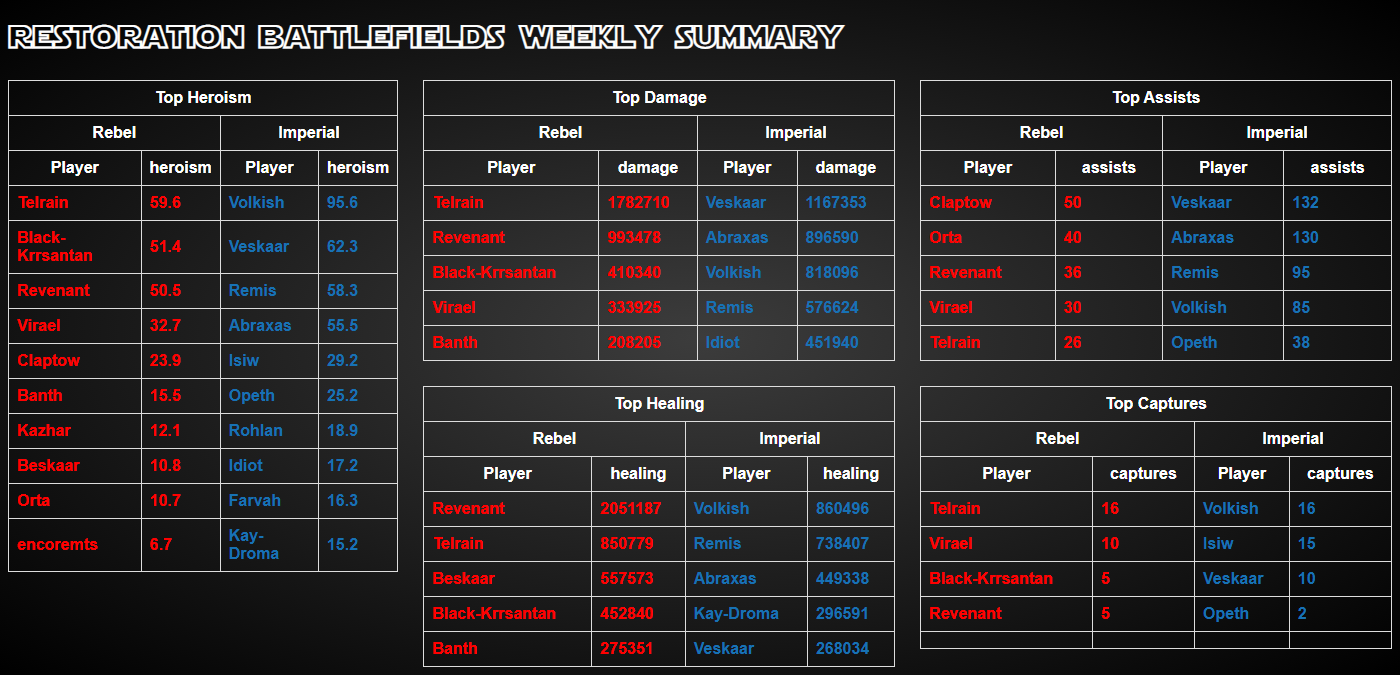
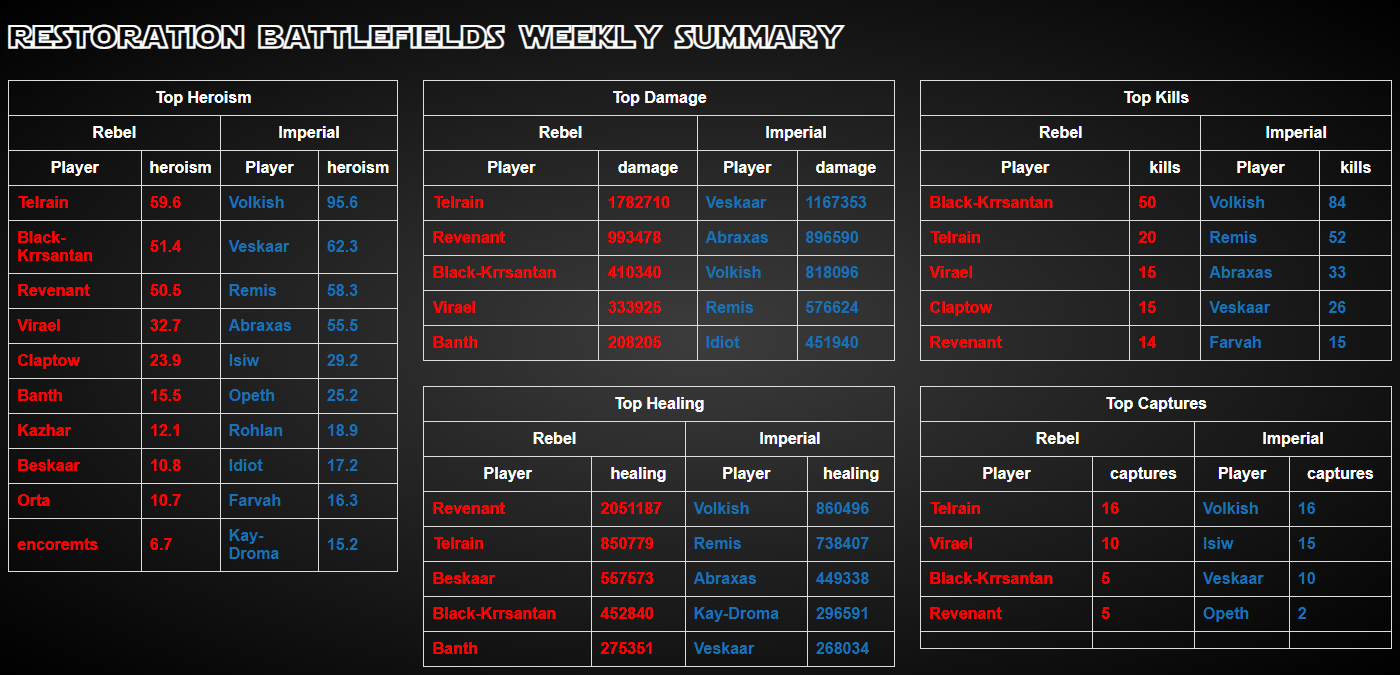
change top assists to top kills

diff --git a/table.html b/table.html
@@ -189,43 +189,43 @@
         </div>
                         <div class="table-cell">
             <table id="player-table">
-                <tr><th colspan="4">Top Assists</th></tr>
+                <tr><th colspan="4">Top Kills</th></tr>
                 <tr><th colspan="2">Rebel</th><th colspan="2">Imperial</th></tr>
-                <tr><th>Player</th><th>assists</th><th>Player</th><th>assists</th></tr>
+                <tr><th>Player</th><th>kills</th><th>Player</th><th>kills</th></tr>
                 
                 <tr>
-                    <td class="rebel-text">Claptow</td>
+                    <td class="rebel-text">Black-Krrsantan</td>
                     <td class="rebel-text">50</td>
-                    <td class="imperial-text">Veskaar</td>
-                    <td class="imperial-text">132</td>
-                </tr>
-            
-                <tr>
-                    <td class="rebel-text">Orta</td>
-                    <td class="rebel-text">40</td>
-                    <td class="imperial-text">Abraxas</td>
-                    <td class="imperial-text">130</td>
-                </tr>
-            
-                <tr>
-                    <td class="rebel-text">Revenant</td>
-                    <td class="rebel-text">36</td>
-                    <td class="imperial-text">Remis</td>
-                    <td class="imperial-text">95</td>
-                </tr>
-            
-                <tr>
-                    <td class="rebel-text">Virael</td>
-                    <td class="rebel-text">30</td>
                     <td class="imperial-text">Volkish</td>
-                    <td class="imperial-text">85</td>
+                    <td class="imperial-text">84</td>
                 </tr>
             
                 <tr>
                     <td class="rebel-text">Telrain</td>
-                    <td class="rebel-text">26</td>
-                    <td class="imperial-text">Opeth</td>
-                    <td class="imperial-text">38</td>
+                    <td class="rebel-text">20</td>
+                    <td class="imperial-text">Remis</td>
+                    <td class="imperial-text">52</td>
+                </tr>
+            
+                <tr>
+                    <td class="rebel-text">Virael</td>
+                    <td class="rebel-text">15</td>
+                    <td class="imperial-text">Abraxas</td>
+                    <td class="imperial-text">33</td>
+                </tr>
+            
+                <tr>
+                    <td class="rebel-text">Claptow</td>
+                    <td class="rebel-text">15</td>
+                    <td class="imperial-text">Veskaar</td>
+                    <td class="imperial-text">26</td>
+                </tr>
+            
+                <tr>
+                    <td class="rebel-text">Revenant</td>
+                    <td class="rebel-text">14</td>
+                    <td class="imperial-text">Farvah</td>
+                    <td class="imperial-text">15</td>
                 </tr>
             
             </table>

diff --git a/objects/WeeklyExport.js b/objects/WeeklyExport.js
@@ -44,13 +44,13 @@ class WeeklyExport {
         const topHeroismRebel = getTopPlayersByHeroism(exports, "Rebel", 10);
         const topDamageRebel = getTopPlayersByStat(exports, "Rebel", 'damage', 5);
         const topHealingRebel = getTopPlayersByStat(exports, "Rebel", 'healing', 5);
-        const topAssistsRebel = getTopPlayersByStat(exports, "Rebel", 'assists', 5);
+        const topKillsRebel = getTopPlayersByStat(exports, "Rebel", 'kills', 5);
         const topCapturesRebel = getTopPlayersByStat(exports, "Rebel", 'captures', 5);
 
         const topHeroismImperial = getTopPlayersByHeroism(exports, "Imperial", 10);
         const topDamageImperial = getTopPlayersByStat(exports, "Imperial", 'damage', 5);
         const topHealingImperial = getTopPlayersByStat(exports, "Imperial", 'healing', 5);
-        const topAssistsImperial = getTopPlayersByStat(exports, "Imperial", 'assists', 5);
+        const topKillsImperial = getTopPlayersByStat(exports, "Imperial", 'kills', 5);
         const topCapturesImperial = getTopPlayersByStat(exports, "Imperial", 'captures', 5);
 
         // Prepare data for the tables
@@ -60,7 +60,7 @@ class WeeklyExport {
                 <div class="table-cell-stats">
                     <div class="table-row" style="margin-bottom: 25px;">
                         <div class="table-cell" style="margin-right: 25px;">${this.createTable('Top Damage', topDamageRebel, topDamageImperial, 'damage')}</div>
-                        <div class="table-cell">${this.createTable('Top Assists', topAssistsRebel, topAssistsImperial, 'assists')}</div>
+                        <div class="table-cell">${this.createTable('Top Kills', topKillsRebel, topKillsImperial, 'kills')}</div>
                     </div>
                     <div class="table-row">
                         <div class="table-cell" style="margin-right: 25px;">${this.createTable('Top Healing', topHealingRebel, topHealingImperial, 'healing')}</div>
